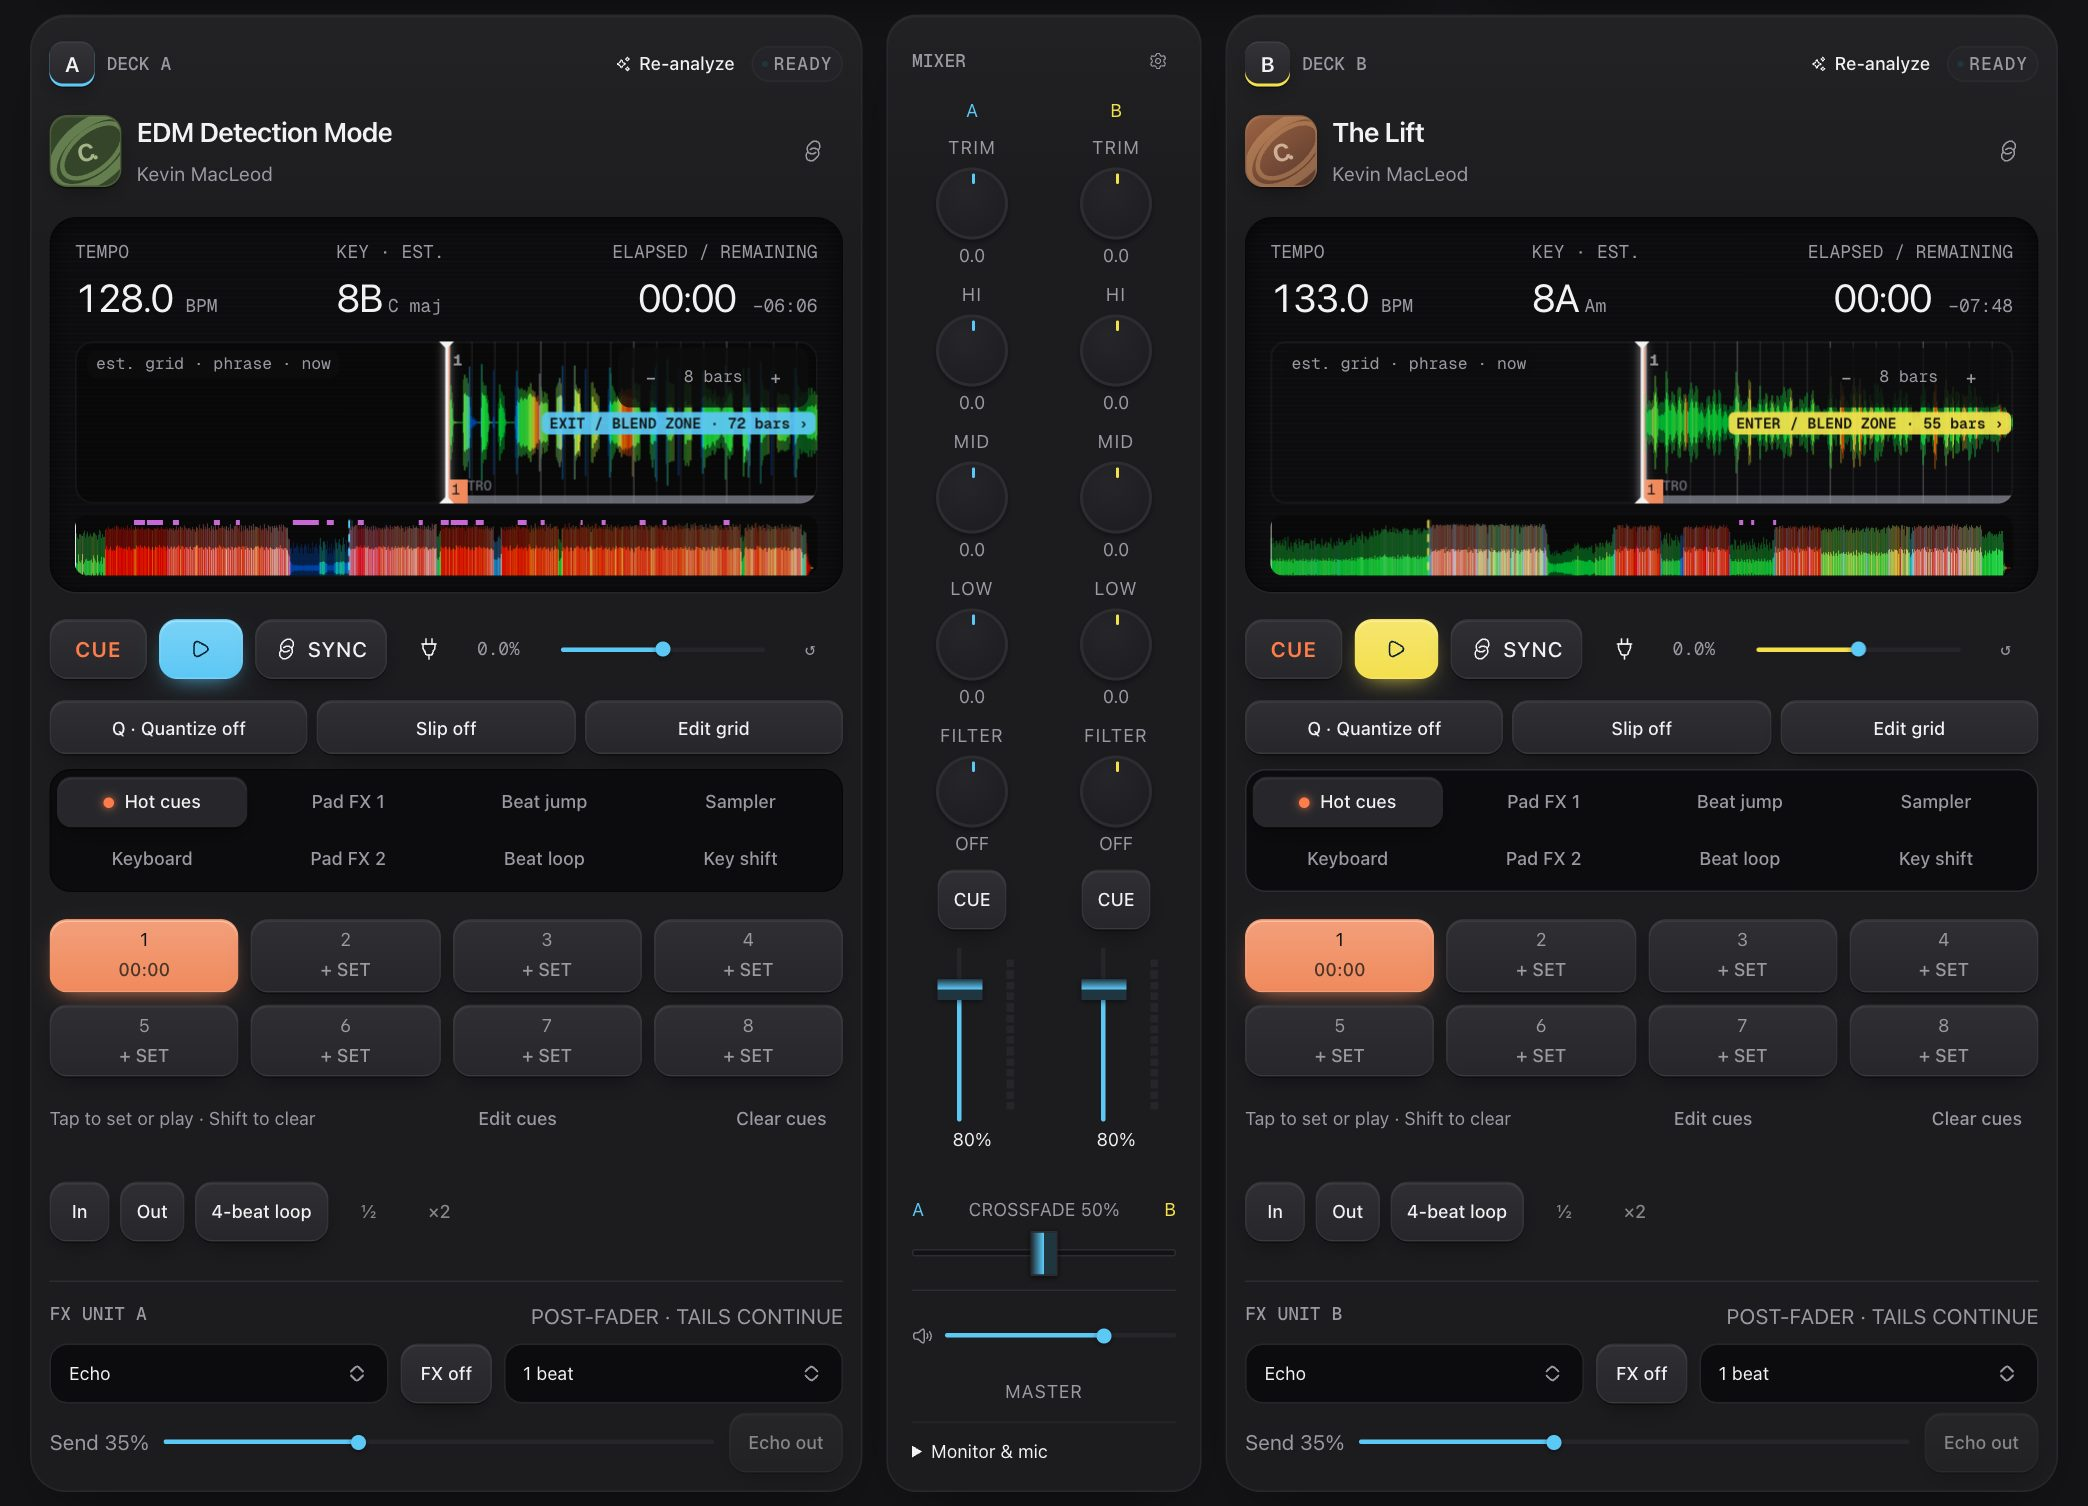
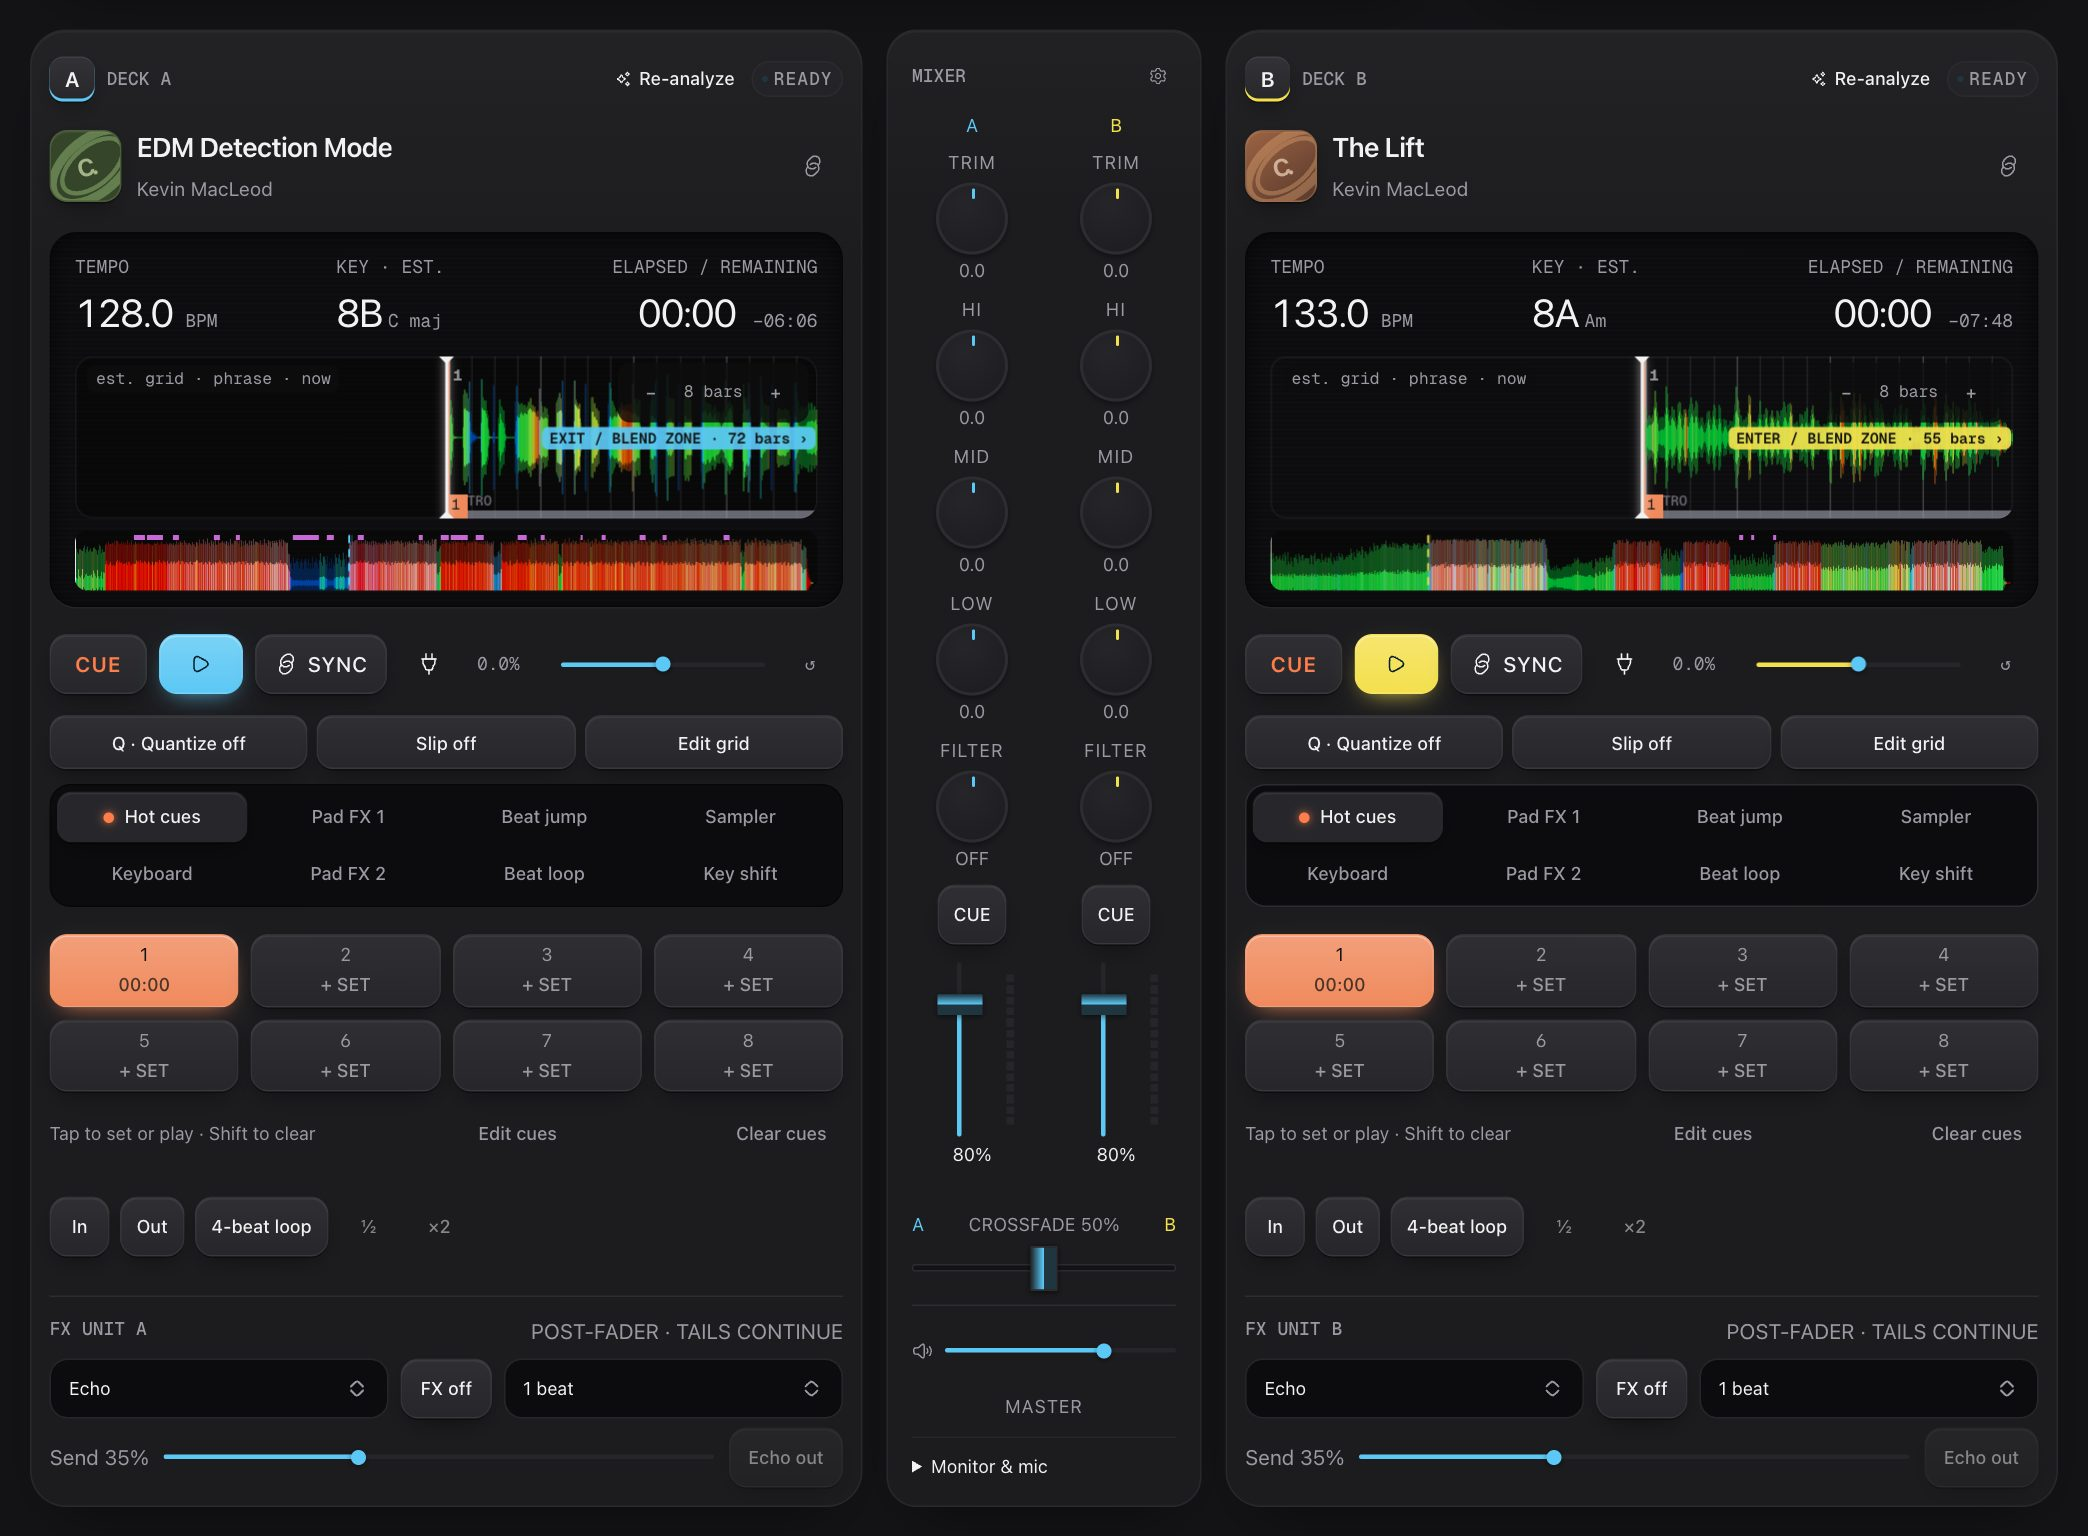
fix: equal padding around the landing page mixer
Capture the decks with the same 20px studio-background margin on every
side, pushing neighbouring sections away during capture, and update the
image size and pin positions to match.

diff --git a/src/routes/home.tsx b/src/routes/home.tsx
@@ -22,10 +22,10 @@ export const Route = createFileRoute("/home")({
 
 // Positions are percentages of the captured decks + mixer image.
 const callouts = [
-  { n: 1, x: 9.6, y: 43, text: "Press play" },
-  { n: 2, x: 31.5, y: 28, text: "Cue shows where to mix" },
-  { n: 3, x: 46.5, y: 42.7, text: "Turn down the bass" },
-  { n: 4, x: 50, y: 83.1, text: "Slide across. You're mixing." },
+  { n: 1, x: 9.6, y: 43.1, text: "Press play" },
+  { n: 2, x: 31.5, y: 28.4, text: "Cue shows where to mix" },
+  { n: 3, x: 46.5, y: 42.8, text: "Turn down the bass" },
+  { n: 4, x: 50, y: 82.5, text: "Slide across. You're mixing." },
 ]
 
 const fears = [
@@ -143,7 +143,7 @@ function HomePage() {
                   src={mixerShot(theme)}
                   alt={`Cue's real decks and mixer in the ${current.name} theme: two decks with waveforms, hot cues and FX either side of a mixer with EQ knobs, channel faders and a crossfader`}
                   width={2088}
-                  height={1506}
+                  height={1536}
                   fetchPriority="high"
                 />
                 {callouts.map((c) => (

diff --git a/src/components/marketing/sections/themes.tsx b/src/components/marketing/sections/themes.tsx
@@ -64,7 +64,7 @@ export function ThemesSection({
               src={mixerShot(theme)}
               alt={`Decks and mixer in the ${current.name} theme`}
               width={2088}
-              height={1506}
+              height={1536}
               loading="lazy"
             />
             <figcaption className="theme-label">

diff --git a/src/marketing.css b/src/marketing.css
@@ -1738,7 +1738,7 @@
 .theme-card img {
   display: block;
   width: 100%;
-  aspect-ratio: 2088 / 1506;
+  aspect-ratio: 2088 / 1536;
   object-fit: cover;
   border-radius: 9px;
 }
